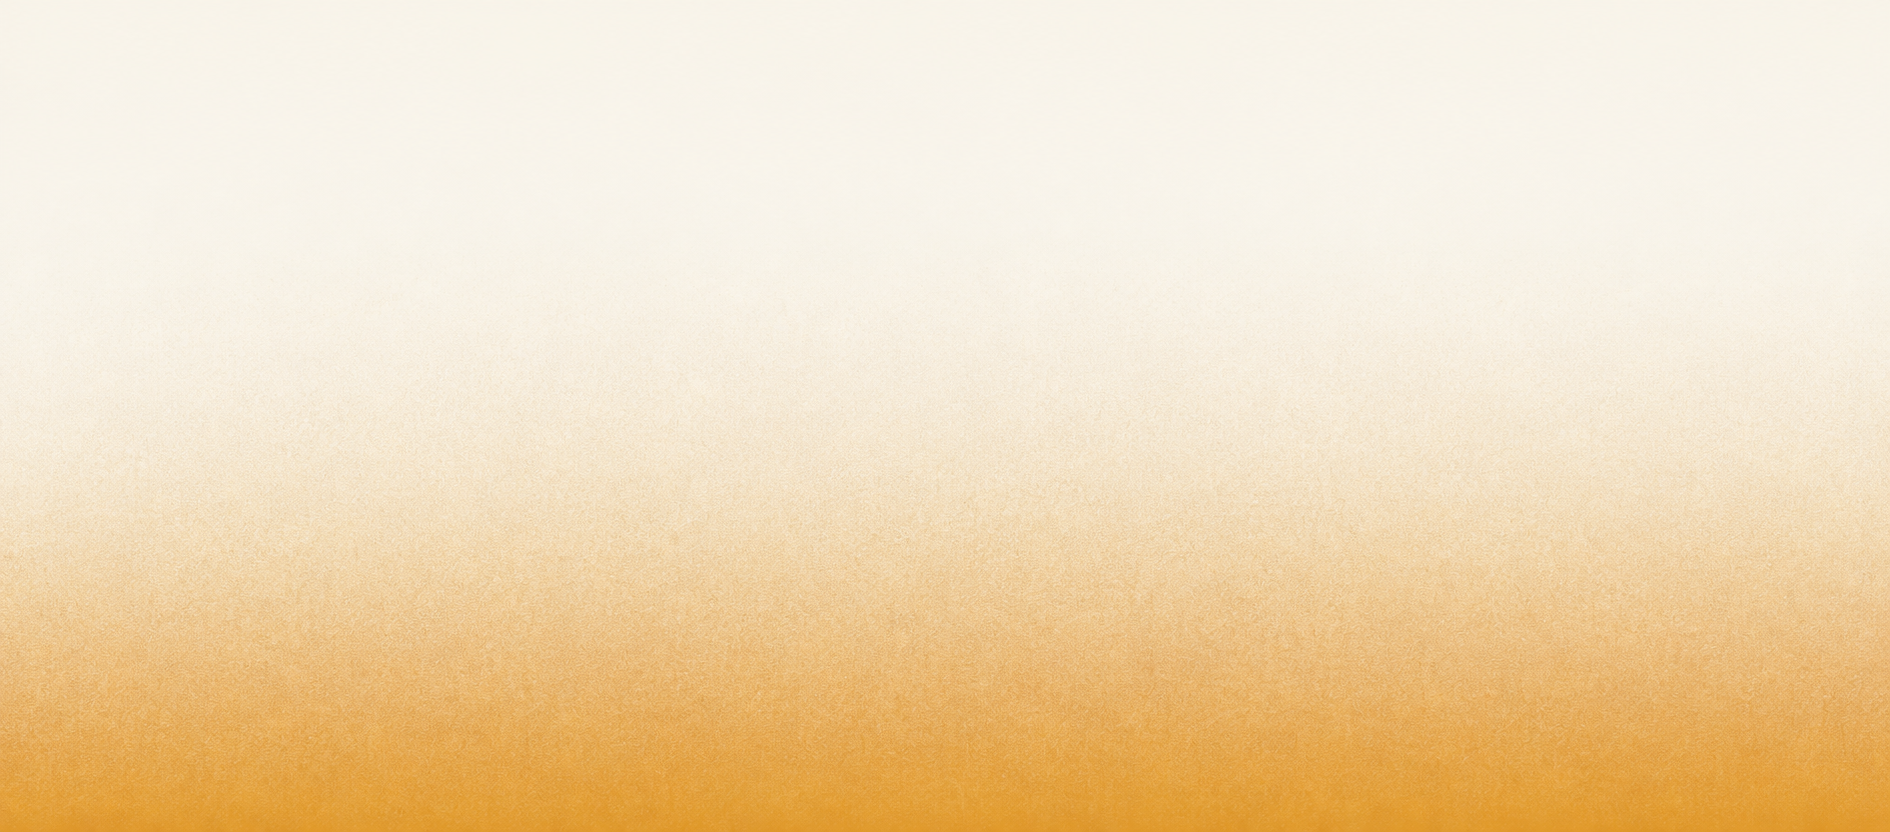
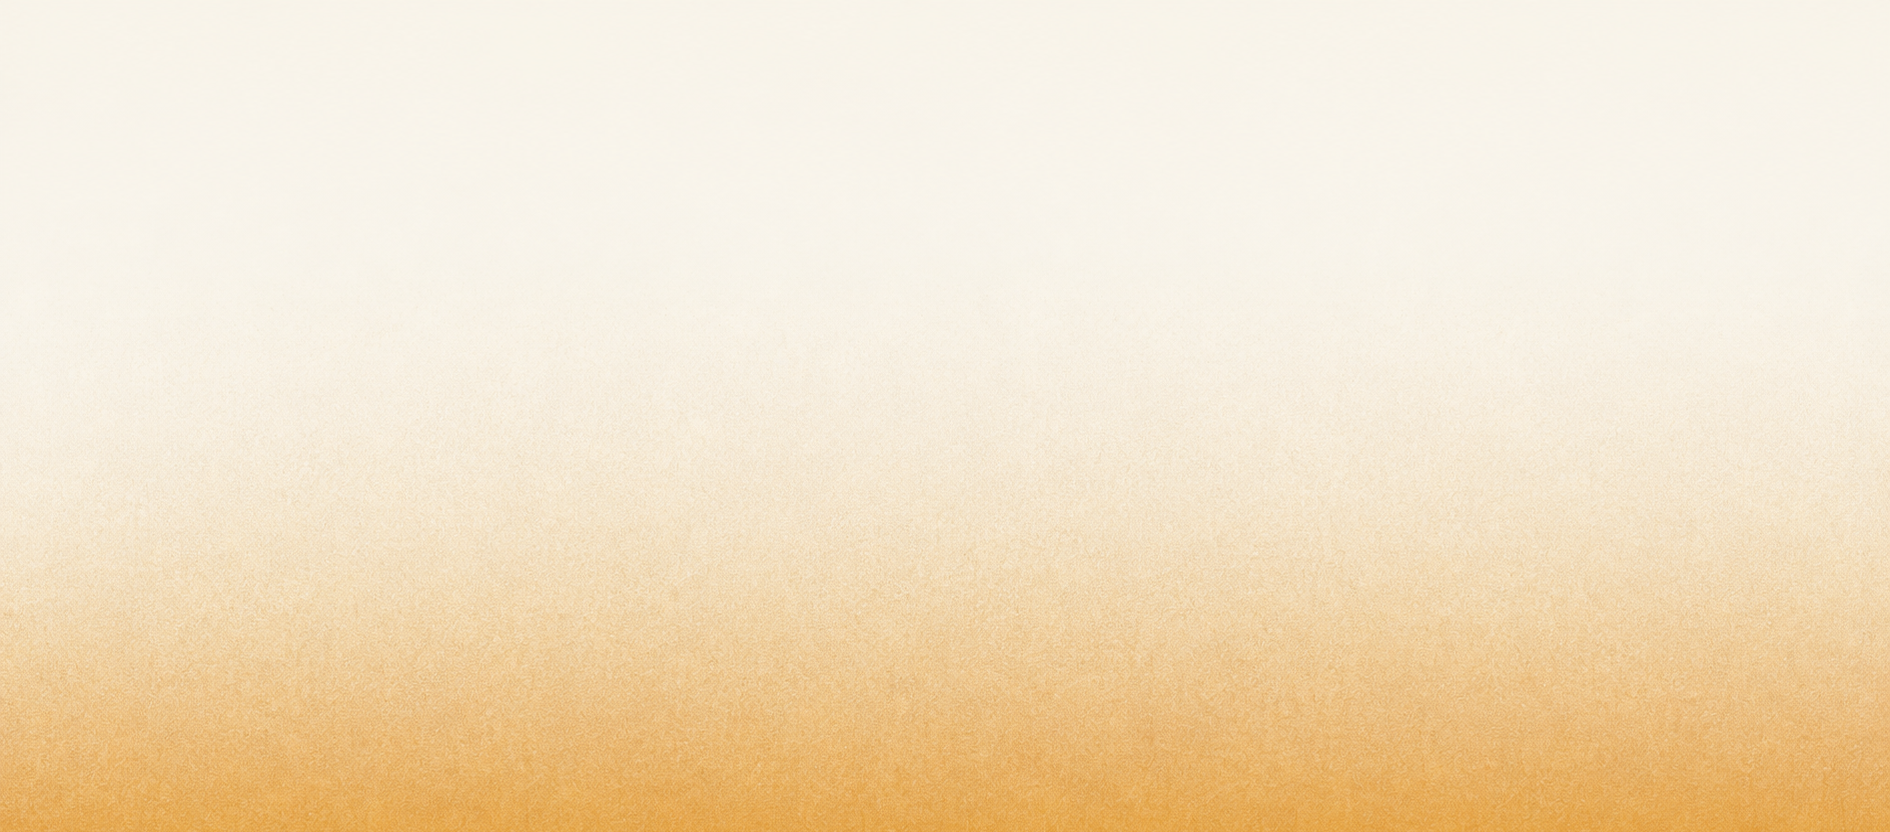
actualización general

Changed region(s): [[0.0, 0.5938, 1.0, 1.0]]

diff --git a/pages/sobre-mi.html b/pages/sobre-mi.html
@@ -115,7 +115,7 @@
         <div class="mx-auto flex flex-col md:flex-row justify-between items-center gap-6 md:gap-0" style="max-width: 1024px;">
             <div>
                 <a href="../index.html" class="text-xl md:text-2xl font-serif tracking-wide font-semibold text-center md:text-left hover:opacity-70 transition-opacity" style="color: #7d7973;">
-                    César Castillo
+                    <em>Ps. César Castillo Vega</em>
                 </a>
             </div>
             <nav>
@@ -150,7 +150,7 @@
                         Soy <strong>Psicólogo</strong> de la Universidad de Chile, con Magíster en Psicología Clínica de Adultos y <strong>Doctor en Filosofía</strong> con mención en Teoría del Arte y Estética por la misma institución.
                     </p>
                     <p>
-                        Mi trayectoria profesional transita por múltiples ámbitos: gestión de investigación científica, edición de libros académicos, investigación psicosocial cualitativa, práctica clínica psicoanalítica y crítica cinematográfica. Esta multiplicidad de campos me ha permitido desarrollar una perspectiva integradora que cruza la clínica, la teoría y la cultura.
+                        Mi práctica profesional se nutre de múltiples referencias. En mi experiencia clínica he apoyado y acompañado procesos de niñas, niños y adolescentes, centrándome posteriormente en la escucha de personas adultas con dificultades relativas a la angustia, duelo, desorientación vital, depresión y otras formas del malestar. Tengo además experiencia en el campo de la gestión universitaria de proyectos científicos, la investigación psicosocial cualitativa en territorios e instituciones, me apasiona la edición y producción de libros, así como la escritura y la comprensión de obras cinematográficas. Esta multiplicidad de campos me ha permitido desarrollar una perspectiva integradora con la que espero nutrir mi práctica psicoterapeútica.
                     </p>
                 </div>
             </section>
@@ -163,11 +163,11 @@
                     <div class="border-l-4 pl-6" style="border-color: #6b8e7a;">
                         <h3 class="font-serif text-xl font-semibold mb-1" style="color: #7d7973;">Doctor en Filosofía</h3>
                         <p class="font-sans text-sm mb-2" style="color: #9a8f87;">Mención en Teoría del Arte y Estética</p>
-                        <p class="font-sans font-light">Universidad de Chile, 2018</p>
+                        <p class="font-sans font-light">Universidad de Chile, 2025</p>
                     </div>
                     <div class="border-l-4 pl-6" style="border-color: #6b8e7a;">
-                        <h3 class="font-serif text-xl font-semibold mb-1" style="color: #7d7973;">Magíster en Psicología Clínica</h3>
-                        <p class="font-sans text-sm mb-2" style="color: #9a8f87;">Especialización en Adultos</p>
+                        <h3 class="font-serif text-xl font-semibold mb-1" style="color: #7d7973;">Magíster en Psicología Clínica de Adultos</h3>
+                        <p class="font-sans text-sm mb-2" style="color: #9a8f87;">Especialización en clínica de Adultos de orientación psicoanalítica</p>
                         <p class="font-sans font-light">Universidad de Chile, 2015</p>
                     </div>
                     <div class="border-l-4 pl-6" style="border-color: #6b8e7a;">
@@ -183,48 +183,17 @@
                 </h2>
                 <div class="font-sans font-light leading-relaxed space-y-4">
                     <p>
-                        Mi trabajo clínico se fundamenta en la tradición psicoanalítica, enriquecida por reflexiones filosóficas sobre la subjetividad, el deseo y la transformación. Creo que el cambio terapéutico emerge del encuentro genuino, en un espacio donde se pueden explorar las capas más profundas de la experiencia vivida.
+                        Mi trabajo clínico opera inserto en la tradición psicoanalítica. Creo que el cambio terapéutico emerge de un trabajo genuino, reflexivo y para nada simple, que requiere la compañia de un lugar que resuena con los propios malestares y preguntas, para cuestionarlos y retomar la experiencia vivida.
                     </p>
                     <p>
                         Trabajo con adultos que enfrentan depresión, ansiedad, traumas, crisis identitarias y procesos de duelo. Mi objetivo es acompañar procesos de transformación profunda, no solo la remisión de síntomas.
                     </p>
-                    <p>
-                        Paralelamente, mi interés académico en estética y cine me permite ofrecer perspectivas alternativas sobre cómo la cultura configura nuestra subjetividad, y cómo el análisis de las representaciones puede enriquecer la comprensión clínica.
-                    </p>
-                </div>
-            </section>
-
-            <section id="intereses" class="space-y-6">
-                <h2 class="font-sans text-lg tracking-[0.2em] uppercase font-semibold pb-2" style="color: #7d7973; border-bottom: 1px solid #d4d0c8;">
-                    Intereses Principales
-                </h2>
-                <div class="grid grid-cols-1 md:grid-cols-2 gap-8">
-                    <div>
-                        <h3 class="font-serif font-semibold text-lg mb-3" style="color: #7d7973;">Clínica</h3>
-                        <ul class="font-sans font-light space-y-2 text-sm">
-                            <li>• Psicoterapia psicoanalítica</li>
-                            <li>• Procesos de transformación</li>
-                            <li>• Trauma y disociación</li>
-                            <li>• Identidad y sexualidad</li>
-                            <li>• Relaciones tempranas</li>
-                        </ul>
-                    </div>
-                    <div>
-                        <h3 class="font-serif font-semibold text-lg mb-3" style="color: #7d7973;">Teoría & Cultura</h3>
-                        <ul class="font-sans font-light space-y-2 text-sm">
-                            <li>• Teoría psicoanalítica contemporánea</li>
-                            <li>• Filosofía de la estética</li>
-                            <li>• Crítica cinematográfica</li>
-                            <li>• Psicoanalisis y arte</li>
-                            <li>• Representación y subjetividad</li>
-                        </ul>
-                    </div>
                 </div>
             </section>
 
             <section id="contacto-cta" class="pt-8" style="border-top: 1px solid #d4d0c8;">
                 <p class="font-sans font-light mb-6">
-                    ¿Interesado en comenzar un proceso terapéutico o colaborar en proyectos académicos?
+                    ¿Necesitas resolver dudas o tienes interés en comenzar un proceso terapéutico?
                 </p>
                 <a href="contacto.html" class="inline-block px-8 py-3 font-sans text-sm tracking-[0.2em] uppercase transition-all duration-300" style="border: 2px solid #7d7973; background-color: transparent; color: #7d7973;" onmouseover="this.style.backgroundColor='#7d7973'; this.style.color='white';" onmouseout="this.style.backgroundColor='transparent'; this.style.color='#7d7973';">
                     Contáctame
@@ -244,7 +213,6 @@
             </div>
             <div class="flex flex-col items-start md:items-end gap-1 font-sans font-light text-sm md:text-base">
                 <a href="mailto:cecastillo@uchile.cl">cecastillo@uchile.cl</a>
-                <a href="mailto:hxcmsk@gmail.com" class="text-sm opacity-80">hxcmsk@gmail.com</a>
                 <a href="tel:+56965157548" class="mt-1">+56 9 6515 7548</a>
             </div>
         </div>

diff --git a/pages/contacto.html b/pages/contacto.html
@@ -144,7 +144,7 @@
         <div class="mx-auto flex flex-col md:flex-row justify-between items-center gap-6 md:gap-0" style="max-width: 1024px;">
             <div>
                 <a href="../index.html" class="text-xl md:text-2xl font-serif tracking-wide font-semibold text-center md:text-left hover:opacity-70 transition-opacity" style="color: #7d7973;">
-                    César Castillo
+                   <em> Ps. César Castillo Vega </em>
                 </a>
             </div>
             <nav>
@@ -172,7 +172,7 @@
 
             <section id="intro" class="font-sans font-light leading-relaxed">
                 <p>
-                    Si estás interesado en iniciar un proceso psicoterapeutico o tienes dudas al respecto, no dudes en contactarme por cualquiera de los canales disponibles. Actualmente estoy recibiendo nuevos clientes y tengo disponibilidad para cupos con arancel diferenciado.
+                    Si estás interesado en iniciar un proceso psicoterapeutico o tienes dudas al respecto, no dudes en contactarme por cualquiera de los canales disponibles. Actualmente estoy recibiendo nuevos pacientes y tengo disponibilidad para cupos con arancel diferenciado.
                 </p>
             </section>
 
@@ -201,111 +201,12 @@
 
             </section>
 
-            <section id="formulario" class="space-y-6 pt-8" style="border-top: 1px solid #d4d0c8;">
-                <h2 class="font-sans text-lg tracking-[0.2em] uppercase font-semibold" style="color: #7d7973;">
-                    Envía un Mensaje
-                </h2>
-                <p class="font-sans font-light text-sm">
-                    Completa el formulario y me pondré en contacto en el menor tiempo posible.
-                </p>
-                
-                <form action="https://formspree.io/f/YOUR_FORM_ID" method="POST" class="space-y-6">
-                    
-                    <div>
-                        <label for="nombre" class="block font-sans text-sm font-semibold mb-2" style="color: #7d7973;">
-                            Nombre
-                        </label>
-                        <input 
-                            type="text" 
-                            id="nombre" 
-                            name="nombre" 
-                            required
-                            placeholder="Tu nombre completo"
-                        >
-                    </div>
-
-                    <div>
-                        <label for="email" class="block font-sans text-sm font-semibold mb-2" style="color: #7d7973;">
-                            Email
-                        </label>
-                        <input 
-                            type="email" 
-                            id="email" 
-                            name="email" 
-                            required
-                            placeholder="tu@email.com"
-                        >
-                    </div>
-
-                    <div>
-                        <label for="telefono" class="block font-sans text-sm font-semibold mb-2" style="color: #7d7973;">
-                            Teléfono (opcional)
-                        </label>
-                        <input 
-                            type="tel" 
-                            id="telefono" 
-                            name="telefono"
-                            placeholder="+56 9 XXXX XXXX"
-                        >
-                    </div>
-
-                    <div>
-                        <label for="asunto" class="block font-sans text-sm font-semibold mb-2" style="color: #7d7973;">
-                            Asunto
-                        </label>
-                        <select 
-                            id="asunto" 
-                            name="asunto" 
-                            required
-                        >
-                            <option value="">Selecciona un asunto</option>
-                            <option value="Atención clínica">Atención clínica</option>
-                            <option value="Supervisión clínica">Supervisión clínica</option>
-                            <option value="Consultoría teórica">Consultoría teórica</option>
-                            <option value="Análisis audiovisual">Análisis audiovisual</option>
-                            <option value="Colaboración académica">Colaboración académica</option>
-                            <option value="Otro">Otro</option>
-                        </select>
-                    </div>
-
-                    <div>
-                        <label for="mensaje" class="block font-sans text-sm font-semibold mb-2" style="color: #7d7973;">
-                            Mensaje
-                        </label>
-                        <textarea 
-                            id="mensaje" 
-                            name="mensaje" 
-                            rows="6" 
-                            required
-                            class="resize-none"
-                            placeholder="Cuéntame más sobre lo que te interesa..."
-                        ></textarea>
-                    </div>
-
-                    <div>
-                        <button 
-                            type="submit" 
-                            class="w-full md:w-auto px-8 py-3 font-sans text-sm tracking-[0.2em] uppercase transition-all duration-300 cursor-pointer"
-                            style="border: 2px solid #7d7973; background-color: transparent; color: #7d7973;" 
-                            onmouseover="this.style.backgroundColor='#7d7973'; this.style.color='white';" 
-                            onmouseout="this.style.backgroundColor='transparent'; this.style.color='#7d7973';"
-                        >
-                            Enviar Mensaje
-                        </button>
-                    </div>
-
-                    <p class="font-sans text-xs" style="color: #9a8f87;">
-                        * Este formulario está protegido. Tus datos no serán compartidos.
-                    </p>
-
-                </form>
-            </section>
-
-            <section id="respuesta" class="pt-8" style="border-top: 1px solid #d4d0c8;">
+                      <section id="respuesta" class="pt-8" style="border-top: 1px solid #d4d0c8;">
                 <div class="p-6" style="border: 1px solid #d4d0c8;">
                     <h3 class="font-serif font-semibold mb-2" style="color: #7d7973;">Tiempo de Respuesta</h3>
                     <p class="font-sans font-light text-sm">
-                        Generalmente respondo en 24-48 horas. Para consultas urgentes, por favor llama o envía un WhatsApp.
+                        Generalmente respondo en 24-48 horas. Para consultas urgentes, por favor llama o envía un WhatsApp. 
+                        Si estás pasando por una emergencia de salud mental, contacta a la línea de prevención del suicidio del ministerio de salud al *4141 o acércate a tu servicio de urgencia más cercano.
                     </p>
                 </div>
             </section>

diff --git a/index.html b/index.html
@@ -306,7 +306,7 @@
         <div class="mx-auto flex flex-col md:flex-row justify-between items-center gap-6 md:gap-0" style="max-width: 1024px;">  <!-- 50% de 1024px -->
             <div>
                 <a href="index.html" class="text-xl md:text-2xl font-serif tracking-wide font-semibold text-center md:text-left hover:opacity-70 transition-opacity" style="color: #7d7973;">
-                    César Castillo
+                    Ps. César Castillo Vega
                 </a>
             </div>
             <nav>
@@ -328,7 +328,7 @@
             <div class="photo-frame">
                 <!-- Foto de perfil: CIRCULAR, VISIBLE DE INMEDIATO -->
                 <img 
-                    src="assets/images/foto-perfil.jpg" 
+                    src="assets/images/foto-perfil-1.jpg" 
                     alt="César Castillo Vega, Psicólogo Clínico en Santiago - PhD en Filosofía"
                     style="opacity: 1;"
                     onerror="this.style.display='none'"
@@ -344,10 +344,10 @@
             <section id="bienvenida">
                 <h1 style="color: #7d7973; font-family: 'Playfair Display', serif;">
                     Hola, <br>
-                    <span class="italic" style="color: #6b8e7a; font-size: 1em;">mi nombre es César Castillo</span>
+                    <span class="italic" style="color: #6b8e7a; font-size: 0.75em;">mi nombre es César Castillo</span>
                 </h1>
                 <p style="color: #7d7973; margin-top: 1rem;">
-                    Soy un psicólogo clínico de la Universidad de Chile con formación en psicoanálisis y filosofía. Busco entregar un espacio de psicoterapia individual, desde una escucha cuidadosa, un acompañamiento singular y un deseo de promover la elaboración de los malestares y dificultades de salud mental de mis consultantes. 
+                    Soy psicólogo clínico de la Universidad de Chile con formación en psicoanálisis y filosofía. Busco entregar un espacio de psicoterapia individual, desde una escucha cuidadosa, un acompañamiento personalizado y el deseo de promover la elaboración de los malestares y dificultades de salud mental de mis consultantes. 
                 </p>
             </section>
 

diff --git a/pages/servicios.html b/pages/servicios.html
@@ -115,7 +115,7 @@
         <div class="mx-auto flex flex-col md:flex-row justify-between items-center gap-6 md:gap-0" style="max-width: 1024px;">
             <div>
                 <a href="../index.html" class="text-xl md:text-2xl font-serif tracking-wide font-semibold text-center md:text-left hover:opacity-70 transition-opacity" style="color: #7d7973;">
-                    César Castillo
+                    <em>Ps. César Castillo Vega</em>
                 </a>
             </div>
             <nav>
@@ -262,7 +262,6 @@
             </div>
             <div class="flex flex-col items-start md:items-end gap-1 font-sans font-light text-sm md:text-base">
                 <a href="mailto:cecastillo@uchile.cl">cecastillo@uchile.cl</a>
-                <a href="mailto:hxcmsk@gmail.com" class="text-sm opacity-80">hxcmsk@gmail.com</a>
                 <a href="tel:+56965157548" class="mt-1">+56 9 6515 7548</a>
             </div>
         </div>
